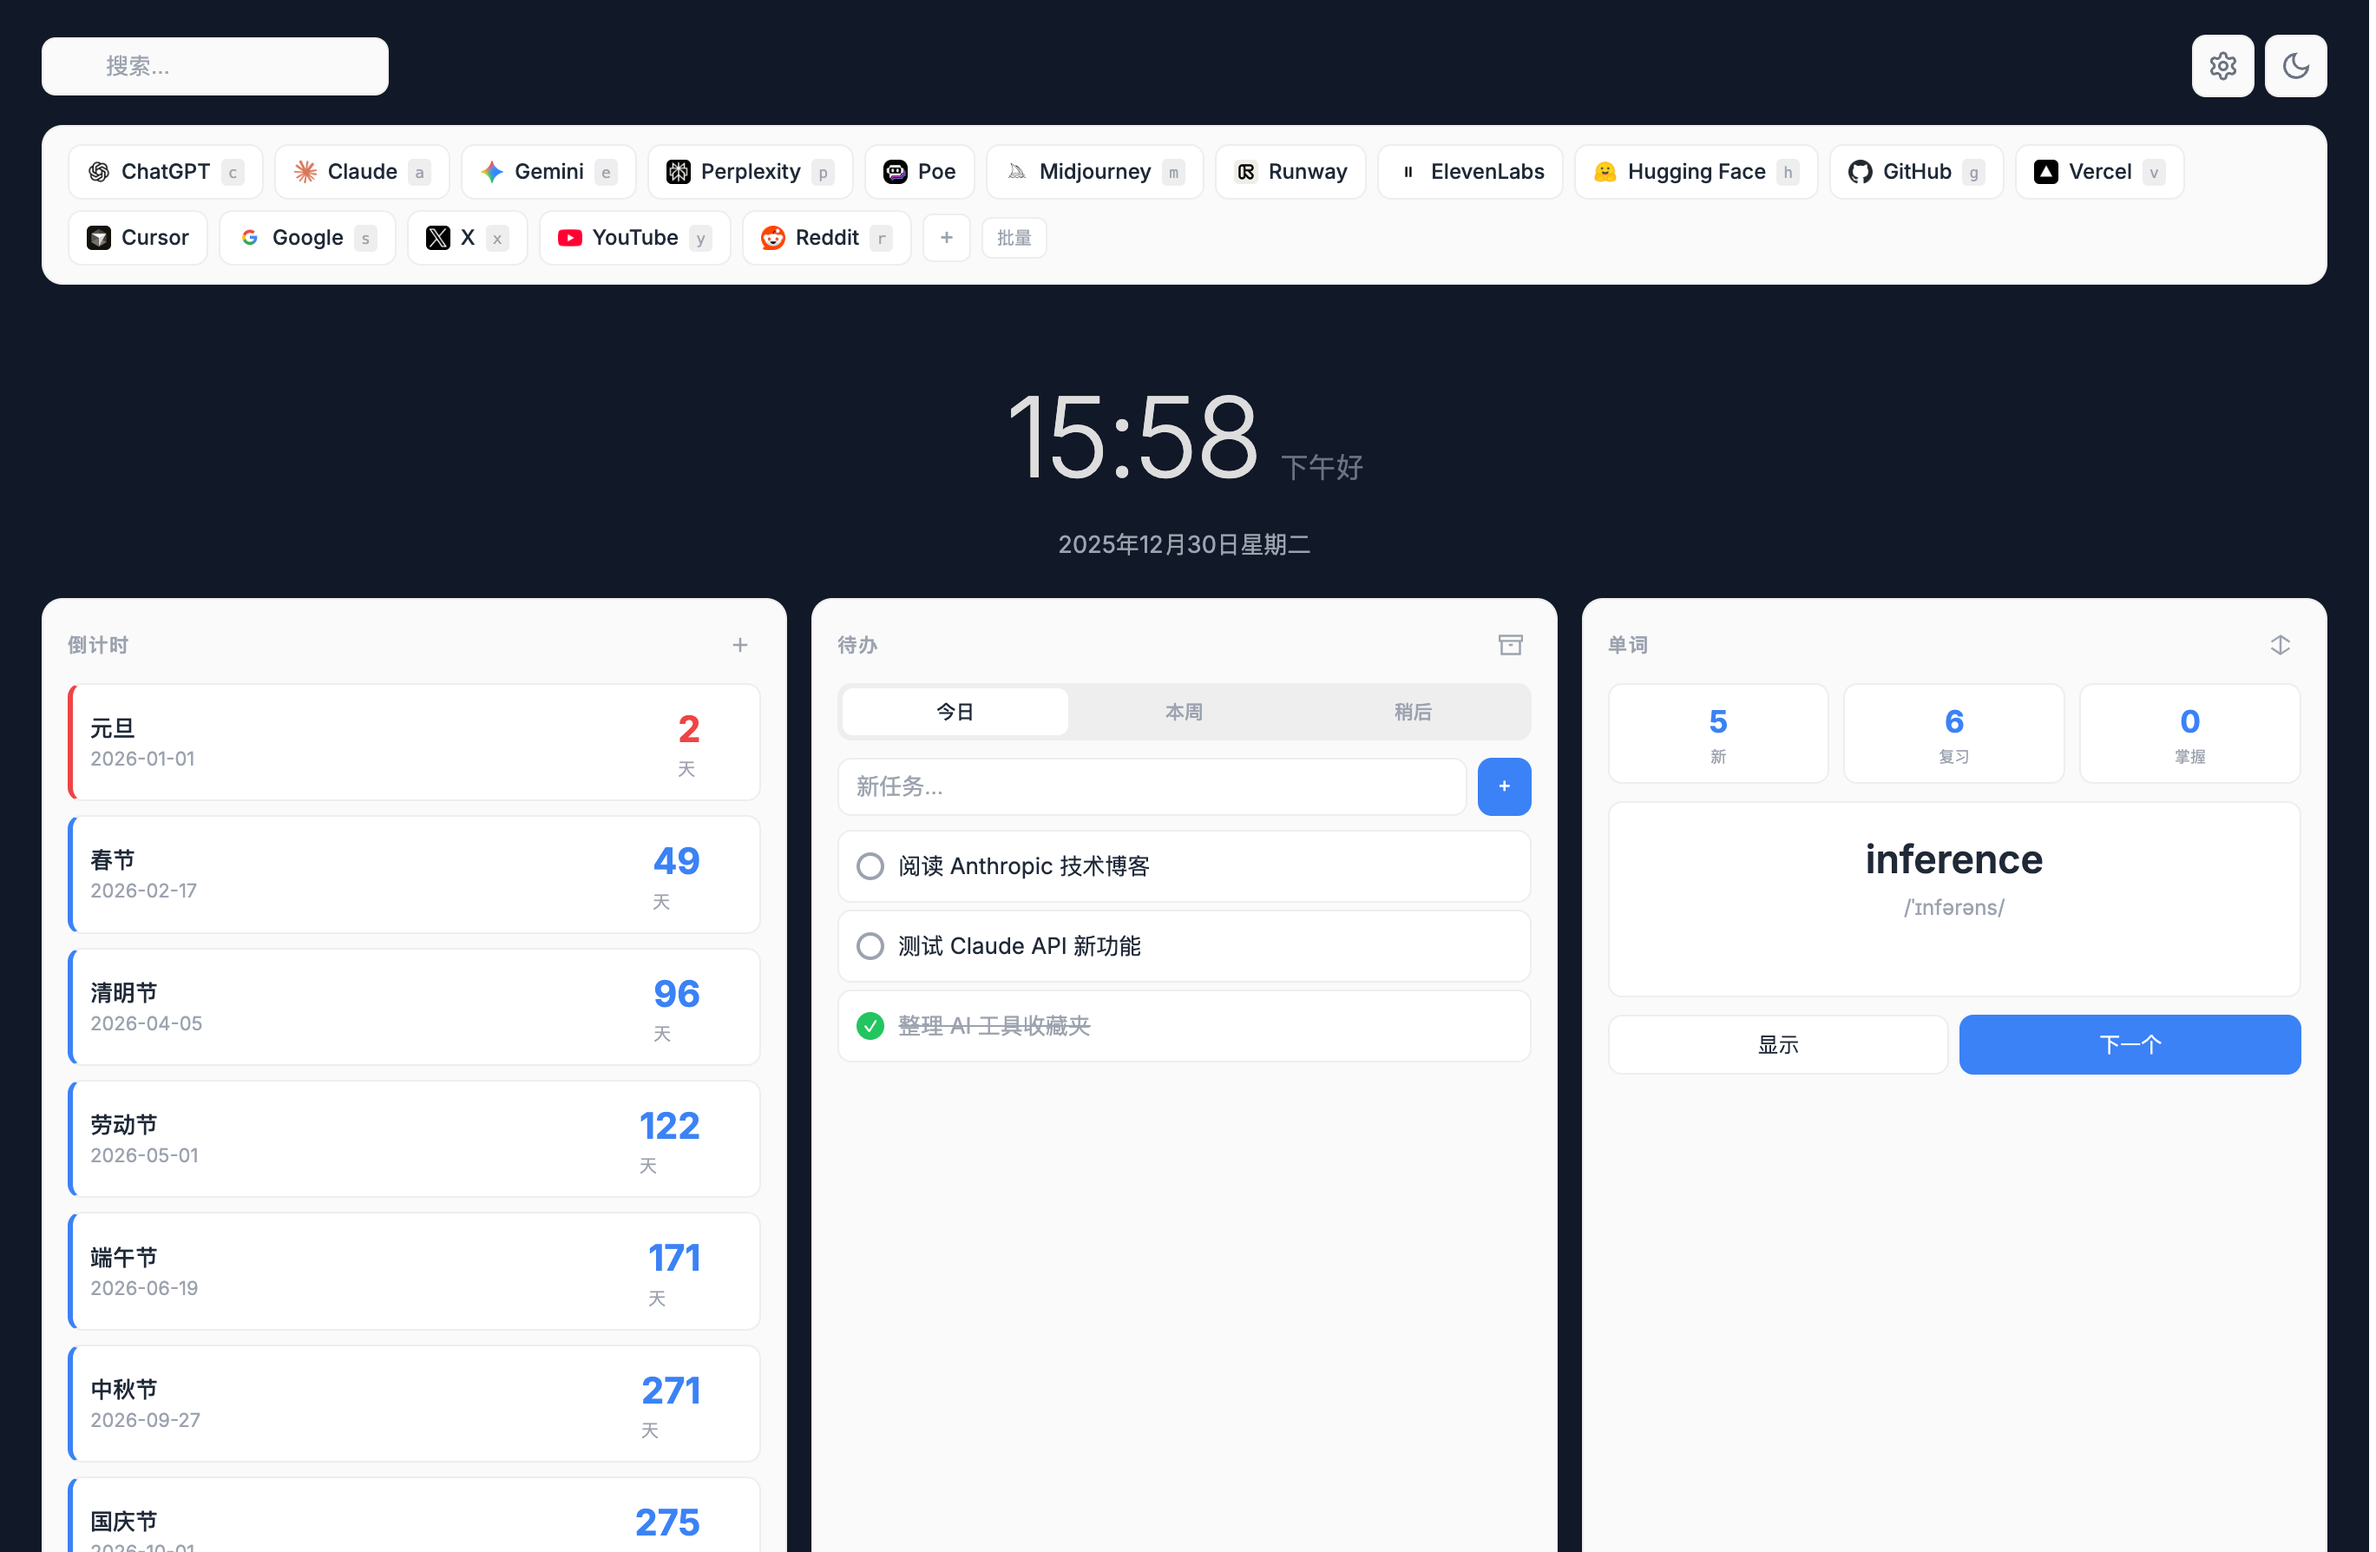
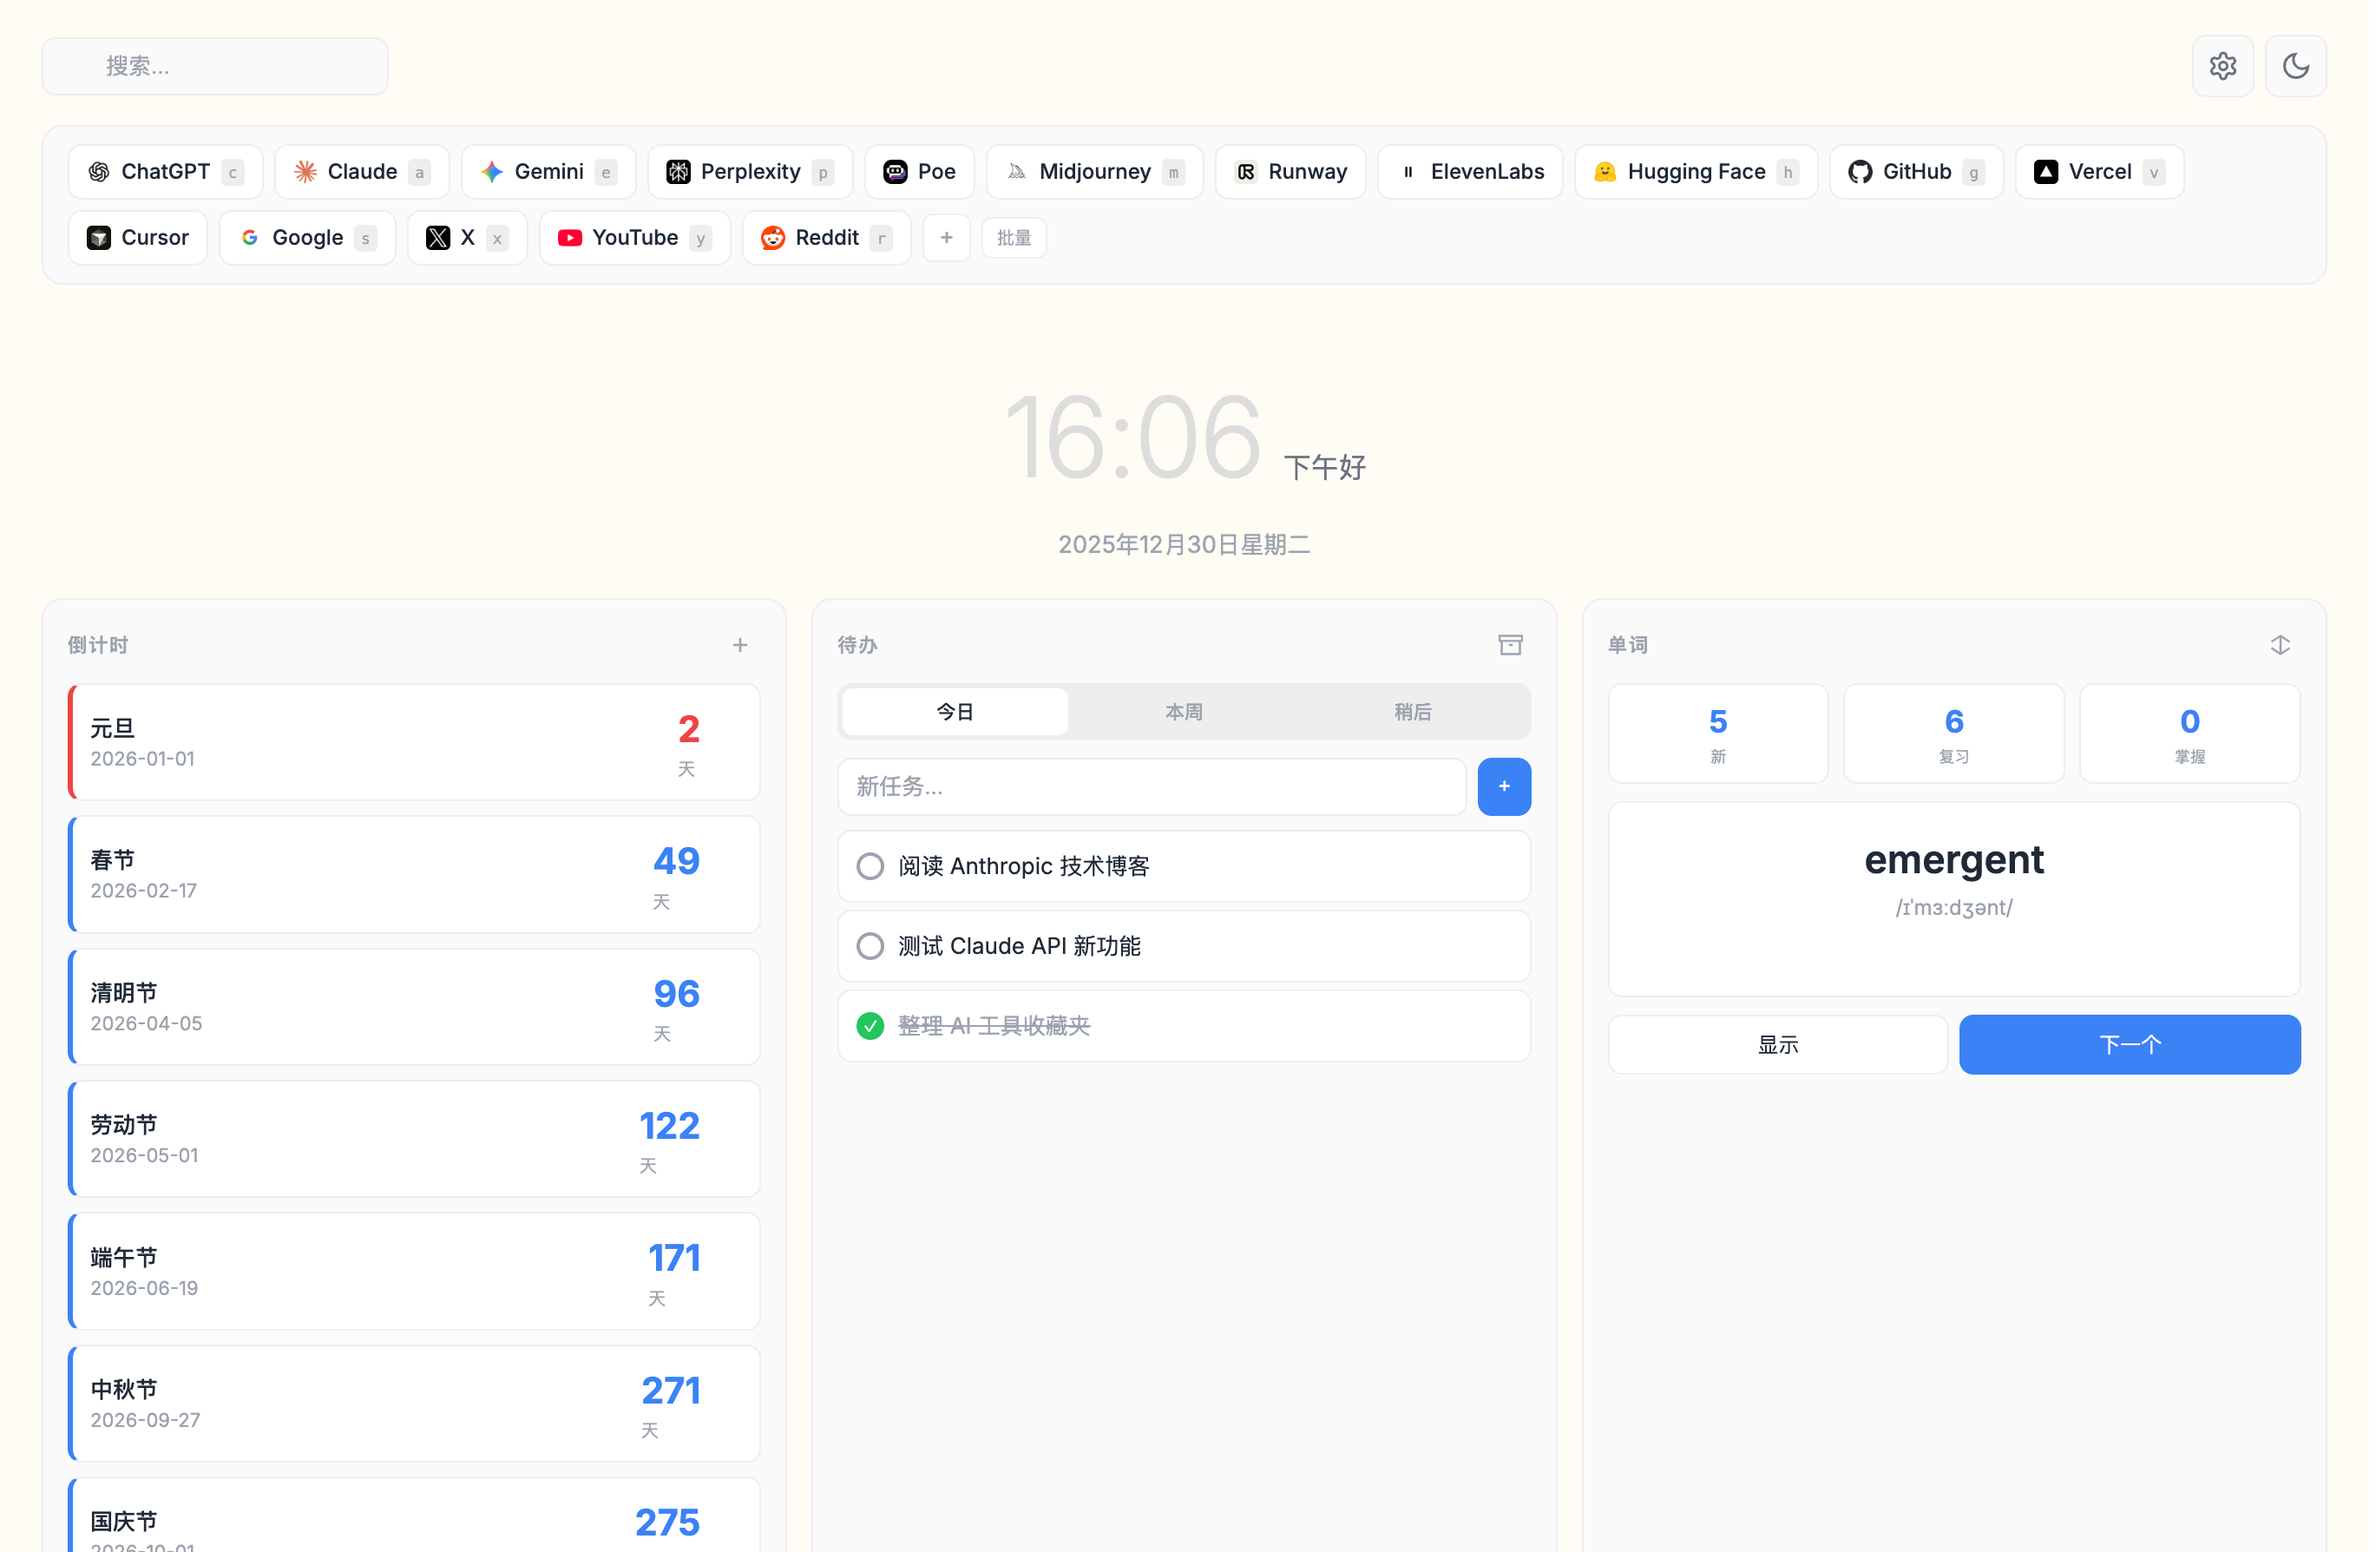
自动同步主题与背景色
- initBg() 现在会自动检测主题和背景是否匹配
- Light 模式下如果背景是深色，自动切换为 light-1
- Dark 模式下如果背景是浅色，自动切换为 gradient-1

🤖 Generated with [CodeBuddy Code]

diff --git a/index.html b/index.html
@@ -768,7 +768,17 @@
           'light-3': '#f8fafc',
           'light-4': '#fef7f7'
         };
-        layer.style.background = g[data.background] || g['gradient-1'];
+        // Auto-correct background if theme doesn't match
+        const isLightTheme = data.theme === 'light';
+        const isLightBg = data.background && data.background.startsWith('light-');
+        if (isLightTheme && !isLightBg) {
+          data.background = 'light-1';
+          saveData();
+        } else if (!isLightTheme && isLightBg) {
+          data.background = 'gradient-1';
+          saveData();
+        }
+        layer.style.background = g[data.background] || (isLightTheme ? g['light-1'] : g['gradient-1']);
       }
       document.querySelectorAll('.bg-option').forEach(o => o.classList.toggle('active', o.dataset.bg === data.background));
     }
